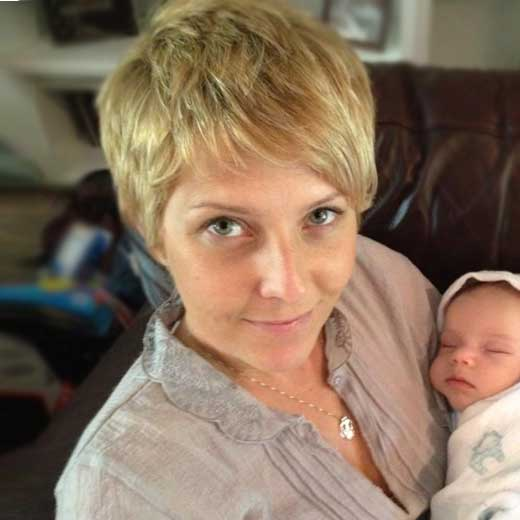
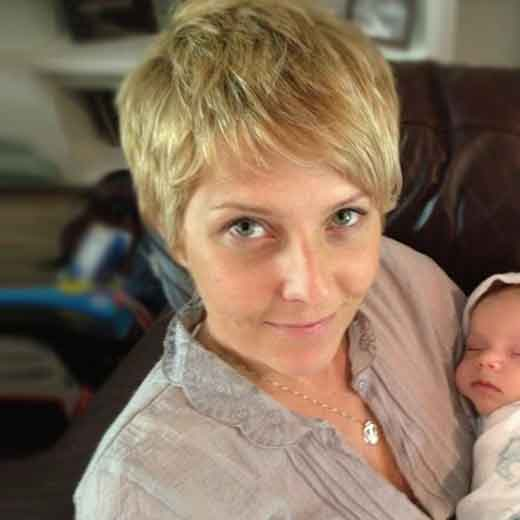
Speaker Updates (Ashe, Ben, Marco, Rachel, Teresa)
- Added Ashe as the 3rd keynote
- Added the last remaining confirmed speakers (couple more to go)
- Updated the hexagon images to soom them out a bit more. They were looking a bit too close. Much better now.

diff --git a/source/assets/stylesheets/scaffold.css.scss b/source/assets/stylesheets/scaffold.css.scss
@@ -230,7 +230,7 @@ $hex-margin: 25px;
 			
 			&:before {
 				background-position: 50% 50%;
-				@include background-size(150% auto);
+				@include background-size(116% auto);
 				position: absolute;
 					top: -55px;
 					left: 0;
@@ -253,7 +253,7 @@ $hex-margin: 25px;
 		}
 		a {
 			background-position: 50% 50%;
-			@include background-size(150% auto);
+			@include background-size(116% auto);
 			border: none;
 			cursor: default;
 			display: block;
@@ -290,7 +290,7 @@ $hex-margin: 25px;
 				background-color: nth($hexagon-colors, $i);
 			}
 		}
-		$speakers: (lisa-welchman, nick-finck, meagan-fisher, garth-braithwaite, wren-lanier, jason-vanlue, jina-bolton, tim-smith, rebecca-garcia, rik-catlow, andrew-hinton, cameron-moll, rachel-nabors, amanda-costello, julie-ann-horvath, matt-stevens, james-white, michael-parenteau, rachel-parsons, sara-blake, magnus-bergmark, anders-frostenson, mindy-wagner, melinda-jackson, leslie-j-morse, larry-staton, pedro-sepulveda, marco-suarez, teresa-rench, zoe-gillenwater, wynn-netherland, brandon-mathis, leslie-jensen-inman, carl-smith, bryan-veloso, yesenia-perez-cruz, patrick-quattlebaum, kendra-shillington, adam-conner, ron-edelen, tessa-harmon, shay-howe);
+		$speakers: (lisa-welchman, nick-finck, meagan-fisher, garth-braithwaite, wren-lanier, jason-vanlue, jina-bolton, tim-smith, rebecca-garcia, rik-catlow, andrew-hinton, cameron-moll, rachel-nabors, amanda-costello, julie-ann-horvath, matt-stevens, james-white, michael-parenteau, rachel-parsons, sara-blake, magnus-bergmark, anders-frostenson, mindy-wagner, melinda-jackson, leslie-j-morse, larry-staton, pedro-sepulveda, marco-suarez, teresa-rench, zoe-gillenwater, wynn-netherland, brandon-mathis, leslie-jensen-inman, carl-smith, bryan-veloso, yesenia-perez-cruz, patrick-quattlebaum, kendra-shillington, adam-conner, ron-edelen, tessa-harmon, shay-howe, ashe-dryden, ben-vandgrift);
 		@each $speaker in $speakers {
 			&.#{$speaker} a, &.#{$speaker} .right-hex:before, &.#{$speaker} .left-hex:before {
 				background-image: url('/assets/images/content/speakers/#{$speaker}.jpg');
